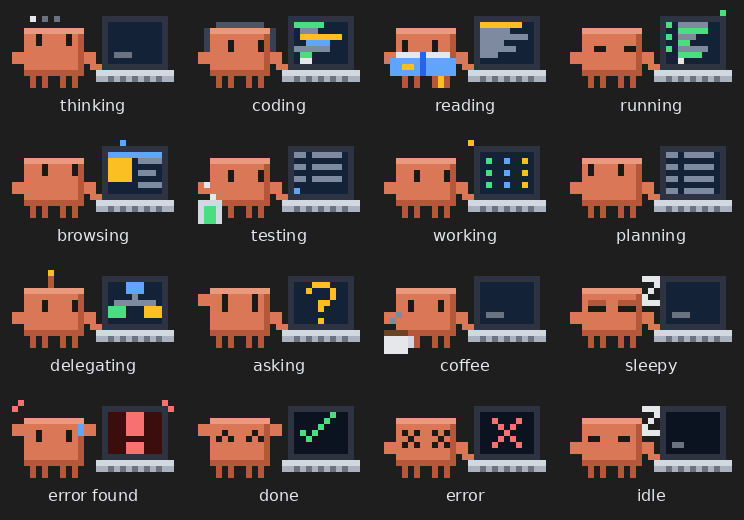
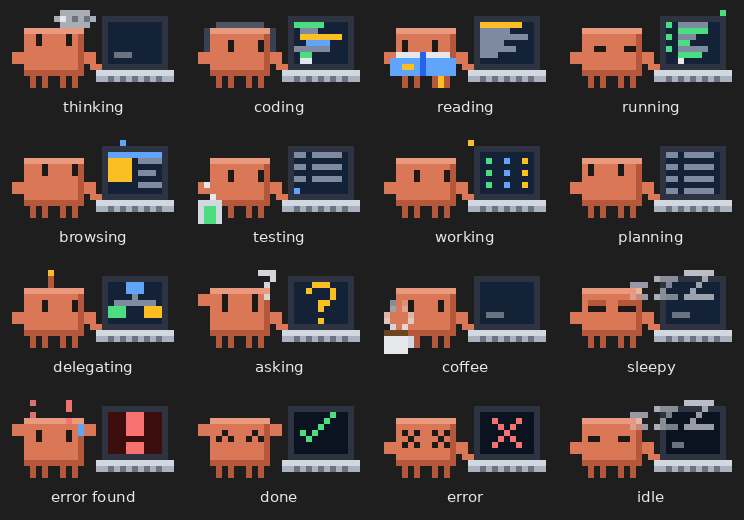
feat: translucent ghost effects for thinking, asking, coffee and alarmed

diff --git a/hooks/art/mini/props.ts b/hooks/art/mini/props.ts
@@ -1,4 +1,5 @@
-import { C, type Pixels, dots, drawZs, fill } from '../pixels'
+import { C, type Pixels, dots, fill } from '../pixels'
+import { bang, ghost, question, wisp, zed } from '../ghost'
 import { COFFEE, PHONE_BAND, PHONE_CUP, BOOK_A, BOOK_B, BOOK_SPINE } from '../palette'
 import type { Activity } from '../../logic/activity'
 
@@ -24,7 +25,7 @@ export const drawProps = (px: Pixels, activity: Activity, frame: number) => {
       fill(px, 1, 5 + lift, 3, 3, C.white)
       fill(px, 1, 5 + lift, 3, 1, COFFEE)
       dots(px, C.edge, [[4, 6 + lift]])
-      dots(px, C.slate, lift === 0 ? [[2 - (frame % 2), 3], [3, 4 - (frame % 2)]] : [])
+      ghost(px, [...wisp(1, 4 + lift, frame % 2 === 0, 0.85), ...wisp(3, 4 + lift, frame % 2 !== 0, 0.85)])
       break
     }
     case 'testing':
@@ -33,23 +34,23 @@ export const drawProps = (px: Pixels, activity: Activity, frame: number) => {
       dots(px, C.white, [[2, 4 - (frame % 2)]])
       break
     case 'alarmed':
-      dots(px, C.red, [[9, 0], [17, 0]])
+      ghost(px, [...bang(3, frame % 2, 3, 0.9), ...bang(6, frame % 2, 3, 0.9)], C.red)
       break
     case 'delegating':
       dots(px, C.shade, [[4, 1]])
       dots(px, frame % 2 === 0 ? C.amber : C.light, [[4, 0]])
       break
     case 'sleepy':
-      drawZs(px, [
-        { x: 7, y: 1 + (frame % 2), size: 3, alpha: 0.4 },
-        { x: 11, y: 0 + (frame % 2), size: 4, alpha: 0.6 },
-      ])
+      ghost(px, [...zed(7, 1 + (frame % 2), 3, 0.4), ...zed(11, frame % 2, 4, 0.6)])
       break
     case 'browsing':
       dots(px, C.blue, [[12 + (frame % 3) * 2, 0]])
       break
     case 'tooling':
       dots(px, C.amber, [[frame % 2 === 0 ? 9 : 17, 0]])
+      break
+    case 'asking':
+      ghost(px, question(10, frame % 2, 0.85))
       break
     default:
       for (const i of [0, 1, 2]) dots(px, i === frame % 3 ? C.white : C.key, [[3 + i * 2, 0]])

diff --git a/hooks/art/ghost.ts b/hooks/art/ghost.ts
@@ -1,0 +1,42 @@
+import { C, CLEAR, type Pixels, type Point } from './pixels'
+
+export type Ghost = readonly [x: number, y: number, alpha: number]
+
+const mix = (from: number, to: number, alpha: number) =>
+  [16, 8, 0].reduce((out, shift) => {
+    const a = (from >> shift) & 0xff
+    const b = (to >> shift) & 0xff
+    return out | (Math.round(a + (b - a) * alpha) << shift)
+  }, 0)
+
+export const ghost = (px: Pixels, cells: readonly Ghost[], tint: number = C.white) => {
+  for (const [x, y, alpha] of cells) {
+    const under = px[y]?.[x]
+    if (under !== undefined) px[y][x] = mix(under === CLEAR ? C.key : under, tint, alpha)
+  }
+}
+
+const shape = (x: number, y: number, alpha: number, points: readonly Point[]): Ghost[] =>
+  points.map(([dx, dy]) => [x + dx, y + dy, alpha])
+
+const span = (length: number) => Array.from({ length }, (_, i) => i)
+
+export const zed = (x: number, y: number, size: number, alpha: number) =>
+  shape(x, y, alpha, [
+    ...span(size).flatMap((i): Point[] => [[i, 0], [i, size - 1]]),
+    ...span(size - 2).map((i): Point => [size - 2 - i, 1 + i]),
+  ])
+
+export const bang = (x: number, y: number, height: number, alpha: number) =>
+  shape(x, y, alpha, [...span(height - 2).map((i): Point => [0, i]), [0, height - 1]])
+
+export const question = (x: number, y: number, alpha: number) =>
+  shape(x, y, alpha, [[0, 0], [1, 0], [2, 0], [2, 1], [1, 2], [1, 4]])
+
+export const cloud = (x: number, y: number, alpha: number) =>
+  shape(x, y, alpha, [...span(5).map((i): Point => [1 + i, 0]), ...span(7).map((i): Point => [i, 1]), ...span(5).map((i): Point => [1 + i, 2])])
+
+const WISP_SWAY = [0, 1, 1, 0, 0] as const
+
+export const wisp = (x: number, y: number, flip: boolean, alpha: number): Ghost[] =>
+  WISP_SWAY.map((dx, i) => [x + (flip ? -dx : dx), y - i, alpha * (1 - i * 0.18)])

diff --git a/hooks/art/pet/props.ts b/hooks/art/pet/props.ts
@@ -1,6 +1,7 @@
 import { C, type Pixels, dots, fill } from '../pixels'
 import { COFFEE, PHONE_BAND, PHONE_CUP, BOOK_A, BOOK_B, BOOK_SPINE } from '../palette'
 import type { Activity } from '../../logic/activity'
+import { bang, cloud, ghost, question, wisp } from '../ghost'
 import { drawZ } from './body'
 
 export const drawProps = (px: Pixels, activity: Activity, frame: number) => {
@@ -37,7 +38,7 @@ export const drawProps = (px: Pixels, activity: Activity, frame: number) => {
       fill(px, 0, 10 + lift, 4, 4, C.white)
       fill(px, 0, 10 + lift, 4, 1, COFFEE)
       fill(px, 4, 11 + lift, 1, 2, C.edge)
-      dots(px, C.slate, lift === 0 ? [[1 - (frame % 2), 8], [2, 7 - (frame % 2)]] : [])
+      ghost(px, [...wisp(1, 9 + lift, frame % 2 === 0, 0.85), ...wisp(3, 9 + lift, frame % 2 !== 0, 0.85)])
       break
     }
     case 'sleepy':
@@ -49,10 +50,14 @@ export const drawProps = (px: Pixels, activity: Activity, frame: number) => {
       dots(px, C.white, [[2, 9 - (frame % 2)], [1, 8 - (frame % 3 === 0 ? 1 : 0)]])
       break
     case 'alarmed':
-      dots(px, C.red, [[0, 1], [26, 1], [1, 0], [25, 0]])
+      ghost(px, [...bang(3, frame % 2, 3, 0.8), ...bang(9, frame % 2, 4, 0.95)], C.red)
       break
     case 'thinking':
-      for (const i of [0, 1, 2]) dots(px, i === frame % 3 ? C.white : C.key, [[3 + i * 2, 1]])
+      ghost(px, cloud(7, 0, 0.5))
+      for (const i of [0, 1, 2]) dots(px, i === frame % 3 ? C.white : C.key, [[8 + i * 2, 1]])
+      break
+    case 'asking':
+      ghost(px, question(10, frame % 2, 0.85))
       break
   }
 }

diff --git a/hooks/art/pixels.ts b/hooks/art/pixels.ts
@@ -43,26 +43,3 @@ export const fill = (px: Pixels, x: number, y: number, w: number, h: number, col
 export const dots = (px: Pixels, color: number, points: readonly Point[]) => {
   for (const [x, y] of points) fill(px, x, y, 1, 1, color)
 }
-
-const mix = (from: number, to: number, alpha: number) =>
-  [16, 8, 0].reduce((out, shift) => {
-    const a = (from >> shift) & 0xff
-    const b = (to >> shift) & 0xff
-    return out | (Math.round(a + (b - a) * alpha) << shift)
-  }, 0)
-
-export type Zed = { x: number; y: number; size: number; alpha: number }
-
-export const drawZs = (px: Pixels, zs: readonly Zed[]) => {
-  for (const { x, y, size, alpha } of zs) {
-    const cells: Point[] = [
-      ...Array.from({ length: size }, (_, i): Point => [x + i, y]),
-      ...Array.from({ length: size }, (_, i): Point => [x + i, y + size - 1]),
-      ...Array.from({ length: size - 2 }, (_, i): Point => [x + size - 2 - i, y + 1 + i]),
-    ]
-    for (const [cx, cy] of cells) {
-      const under = px[cy]?.[cx]
-      if (under !== undefined) px[cy][cx] = mix(under === CLEAR ? C.key : under, C.white, alpha)
-    }
-  }
-}

diff --git a/hooks/art/pet/body.ts b/hooks/art/pet/body.ts
@@ -1,15 +1,12 @@
-import { C, type Draw, type Pixels, dots, drawZs, fill } from '../pixels'
+import { C, type Draw, type Pixels, dots, fill } from '../pixels'
+import { ghost, zed } from '../ghost'
 import type { Mood } from '../../../types'
 import type { Activity } from '../../logic/activity'
 import { TYPING } from './constants'
 
 export const drawZ = (px: Pixels, frame: number) => {
   const bob = frame % 2
-  drawZs(px, [
-    { x: 10, y: 2 + bob, size: 3, alpha: 0.35 },
-    { x: 14, y: 1 + bob, size: 4, alpha: 0.5 },
-    { x: 19, y: 0 + bob, size: 5, alpha: 0.65 },
-  ])
+  ghost(px, [...zed(10, 2 + bob, 3, 0.35), ...zed(14, 1 + bob, 4, 0.5), ...zed(19, bob, 5, 0.65)])
 }
 
 export const drawArms = (px: Pixels, mood: Mood, activity: Activity, frame: number, at: Draw) => {

diff --git a/README.md b/README.md
@@ -35,7 +35,7 @@ While working, the main pet and every subagent act out what they are doing, judg
 
 | Personality | When                                                              | What you see                                                         |
 | ----------- | ----------------------------------------------------------------- | -------------------------------------------------------------------- |
-| thinking    | Between tool calls                                                | Eyes look up, thought dots above the head, a blinking cursor         |
+| thinking    | Between tool calls                                                | Eyes look up, a thought cloud with cycling dots above the head, a blinking cursor |
 | coding      | Edit, Write, MultiEdit, NotebookEdit                              | Headphones, hands typing, colored code scrolling                     |
 | reading     | Read, Grep, Glob, LS                                              | Wide scanning eyes, holding an open book up to read, a highlight moving over text |
 | running     | Bash                                                              | Squinting at a green terminal, a blinking status light               |
@@ -43,11 +43,11 @@ While working, the main pet and every subagent act out what they are doing, judg
 | testing     | Playwright and Chrome DevTools MCP tools                          | A bubbling lab tube, a test checklist ticking and a progress bar     |
 | planning    | TodoWrite, plan mode tools                                        | Eyes up and to the side, a checklist being ticked off                |
 | delegating  | Task, Agent, SendMessage                                          | A blinking antenna, a tree of boxes passing work down                |
-| asking      | AskUserQuestion                                                   | A raised hand and a blinking question mark                           |
+| asking      | AskUserQuestion                                                   | A raised hand, a blinking question mark, a faint one floating off the head|
 | working     | Any other tool, including MCP tools                               | Blinking indicator lights on screen and a spark                      |
-| coffee      | Quiet for 6 seconds, or a Bash command running over 12 seconds   | Sips a mug of coffee with steam while it waits                       |
-| sleepy      | Quiet for 25 seconds                                              | Heavy eyelids, a dim screen and floating Zzz that grow                         |
-| error found | A tool call returned an error, for 3 seconds                      | Arms up and a hop, a sweat drop, a flashing red warning on screen    |
+| coffee      | Quiet for 6 seconds, or a Bash command running over 12 seconds   | Sips a mug of coffee with translucent steam wisps while it waits|
+| sleepy      | Quiet for 25 seconds                                              | Heavy eyelids, a dim screen and floating Zzz that grow                            |
+| error found | A tool call returned an error, for 3 seconds                      | Arms up and a hop, a sweat drop, red ! marks over the head, a flashing red warning on screen|
 
 ### Subagent crew
 
